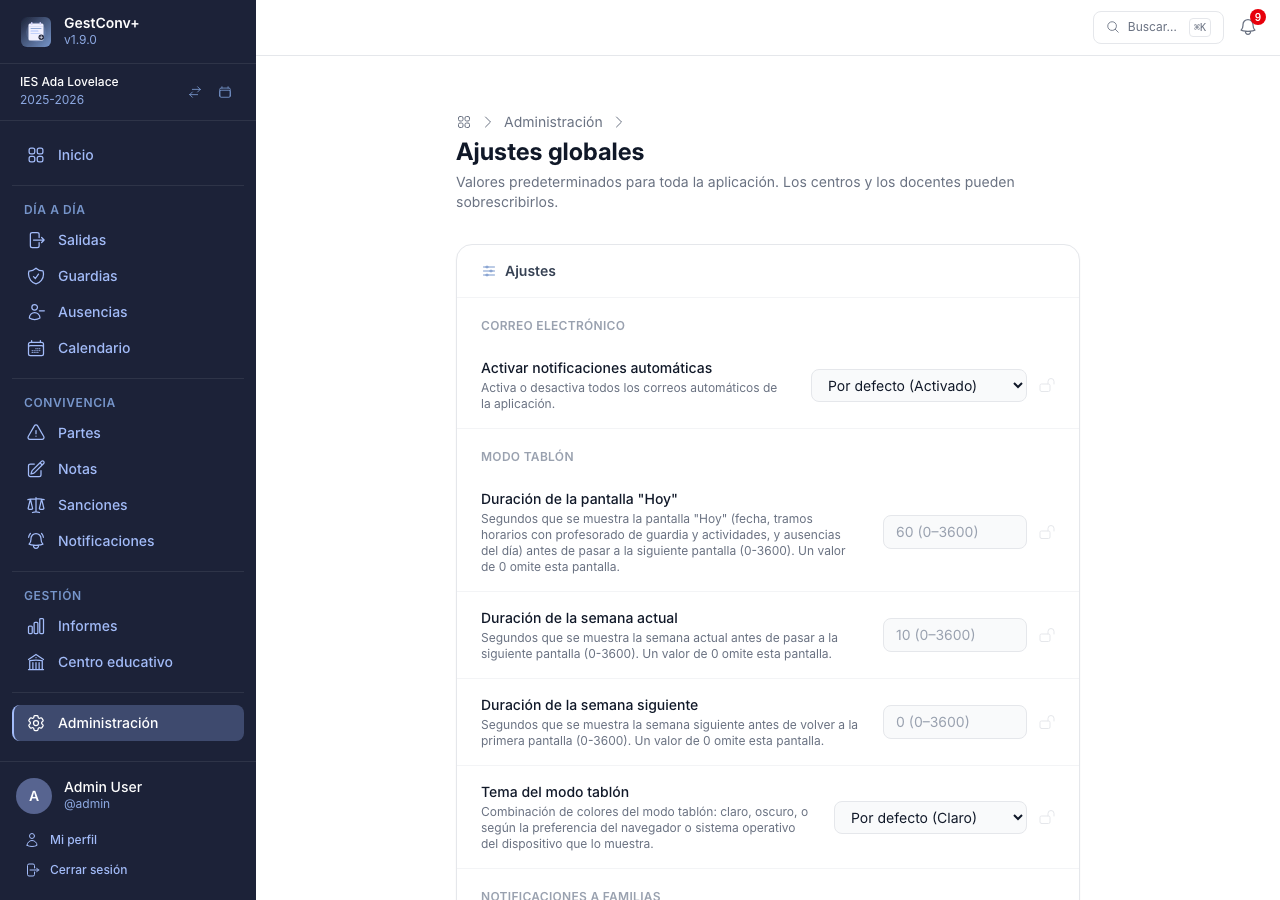
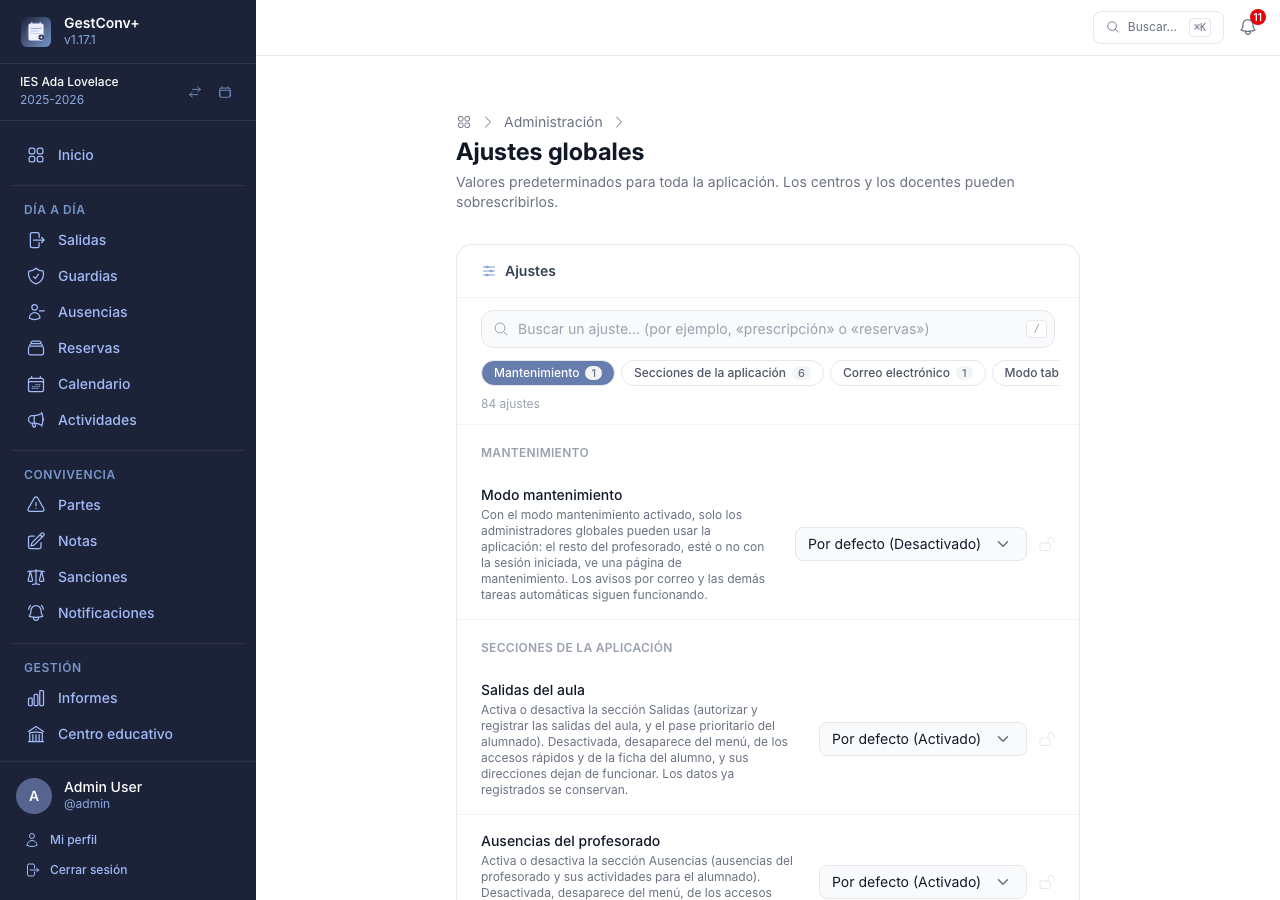
feat(settings): los avisos que se reciben se agrupan en cuatro categorías; la barra de ajustes se prueba y se documenta
El interruptor de «solo los modificados» existe siempre (la barra no se repinta) y la categoría activa se calcula por el desplazamiento.

Claude-Session: https://claude.ai/code/session_01T5bQf589vbJe9wberdDbBm

diff --git a/assets/controllers/settings_nav_controller.js b/assets/controllers/settings_nav_controller.js
@@ -10,38 +10,28 @@ import { Controller } from '@hotwired/stimulus';
  * vuelve a aplicar con cada evento «live:render». La barra de búsqueda lleva data-live-ignore y no se repinta.
  */
 export default class extends Controller {
-    static targets = ['input', 'clear', 'hint', 'modified', 'modifiedCount', 'chip', 'section', 'item', 'empty', 'status'];
+    static targets = ['input', 'clear', 'hint', 'modified', 'modifiedLabel', 'modifiedCount', 'chip', 'section', 'item', 'empty', 'status'];
     static values  = { countAll: String, countFiltered: String, empty: String };
 
-    #spy = null;
-    #visible = new Set();
     #root = null;
+    #frame = 0;
 
     connect() {
         this.#root = this.element.parentElement;
         this.#root?.addEventListener('live:render', this.#onRender);
         document.addEventListener('keydown', this.#onKey);
-
-        this.#spy = new IntersectionObserver((entries) => this.#spyEntries(entries), { rootMargin: '-140px 0px -55% 0px' });
-        this.sectionTargets.forEach((section) => this.#spy.observe(section));
+        window.addEventListener('scroll', this.#onScroll, { passive: true });
 
         this.apply();
         this.#scrollToHash();
+        this.#updateActive();
     }
 
     disconnect() {
         this.#root?.removeEventListener('live:render', this.#onRender);
         document.removeEventListener('keydown', this.#onKey);
-        this.#spy?.disconnect();
-    }
-
-    sectionTargetConnected(section) {
-        this.#spy?.observe(section);
-    }
-
-    sectionTargetDisconnected(section) {
-        this.#spy?.unobserve(section);
-        this.#visible.delete(section);
+        window.removeEventListener('scroll', this.#onScroll);
+        cancelAnimationFrame(this.#frame);
     }
 
     filter() {
@@ -82,6 +72,16 @@ export default class extends Controller {
     }
 
     apply() {
+        // El interruptor de «solo los modificados» solo tiene sentido si hay alguno (el número cambia al guardar).
+        const modifiedCount = this.itemTargets.filter((item) => item.dataset.modified === '1').length;
+        if (this.hasModifiedTarget) {
+            if (modifiedCount === 0) {
+                this.modifiedTarget.checked = false;
+            }
+            this.modifiedLabelTarget.classList.toggle('hidden', modifiedCount === 0);
+            this.modifiedLabelTarget.classList.toggle('inline-flex', modifiedCount > 0);
+        }
+
         const terms    = this.#normalize(this.inputTarget.value).split(/\s+/).filter(Boolean);
         const onlyMod  = this.hasModifiedTarget && this.modifiedTarget.checked;
         const filtered = terms.length > 0 || onlyMod;
@@ -112,7 +112,7 @@ export default class extends Controller {
         });
 
         if (this.hasModifiedCountTarget) {
-            this.modifiedCountTarget.textContent = String(this.itemTargets.filter((item) => item.dataset.modified === '1').length);
+            this.modifiedCountTarget.textContent = String(modifiedCount);
         }
         this.clearTarget.classList.toggle('hidden', this.inputTarget.value === '');
         this.hintTarget.classList.toggle('sm:inline-block', this.inputTarget.value === '');
@@ -122,11 +122,16 @@ export default class extends Controller {
 
         this.emptyTarget.classList.toggle('hidden', matches > 0);
         this.emptyTarget.textContent = this.emptyValue.replace('%query%', this.inputTarget.value.trim());
+
+        this.#updateActive();
     }
 
     #onRender = () => {
         // El repintado puede traer secciones y ajustes nuevos: se aplica de nuevo el filtro vigente.
-        queueMicrotask(() => this.apply());
+        queueMicrotask(() => {
+            this.apply();
+            this.#updateActive();
+        });
     };
 
     /** «/» lleva el foco al buscador, como en tantas aplicaciones, salvo que ya se esté escribiendo en un campo. */
@@ -147,19 +152,34 @@ export default class extends Controller {
         this.inputTarget.select();
     };
 
-    #spyEntries(entries) {
-        entries.forEach((entry) => {
-            if (entry.isIntersecting) {
-                this.#visible.add(entry.target);
-            } else {
-                this.#visible.delete(entry.target);
-            }
-        });
+    #onScroll = () => {
+        cancelAnimationFrame(this.#frame);
+        this.#frame = requestAnimationFrame(() => this.#updateActive());
+    };
 
-        const current = this.sectionTargets.find((section) => this.#visible.has(section) && !section.classList.contains('hidden'));
-        if (current) {
-            this.#markActive(current.dataset.category);
+    /**
+     * La categoría activa es la última cuyo comienzo ya ha pasado por debajo de la barra fija; al llegar al final de
+     * la página, la última (que no podría subir hasta arriba).
+     */
+    #updateActive() {
+        const sections = this.sectionTargets.filter((section) => !section.classList.contains('hidden'));
+        if (sections.length === 0) {
+            return;
         }
+
+        const atBottom = window.innerHeight + window.scrollY >= document.documentElement.scrollHeight - 4;
+        let current    = sections[0];
+        if (atBottom) {
+            current = sections[sections.length - 1];
+        } else {
+            for (const section of sections) {
+                if (section.getBoundingClientRect().top <= 190) {
+                    current = section;
+                }
+            }
+        }
+
+        this.#markActive(current.dataset.category);
     }
 
     #markActive(slug) {

diff --git a/migrations/sqlite/Version20260101000063.php b/migrations/sqlite/Version20260101000063.php
@@ -11,14 +11,23 @@ use Symfony\Component\Uid\Uuid;
 
 final class Version20260101000063 extends AbstractMigration
 {
-    /** Un ajuste «recibir este aviso» por cada tipo de aviso por correo (el mismo nombre que su evento). */
+    /**
+     * Un ajuste «recibir este aviso» por cada tipo de aviso por correo (el mismo nombre que su evento), con el grupo
+     * (categoría de ajustes) en que se muestra.
+     */
     private const array EVENTS = [
-        'report_created', 'report_notified', 'report_modified', 'report_deleted', 'report_prescribed', 'report_auto_prescribed',
-        'report_sanctioned', 'report_sanctionable_committee', 'sanction_notified', 'sanction_prescribed', 'sanction_auto_prescribed',
-        'sanction_task_assigned', 'sanction_task_reminder', 'daily_note_threshold', 'report_prescription_warning',
-        'sanction_prescription_warning', 'booking_requested', 'booking_approved', 'booking_rejected',
-        'booking_issue_reported', 'booking_issue_received', 'booking_issue_resolved',
+        'report_created' => 'reports', 'report_notified' => 'reports', 'report_modified' => 'reports', 'report_deleted' => 'reports',
+        'report_prescribed' => 'reports', 'report_auto_prescribed' => 'reports', 'report_sanctioned' => 'reports',
+        'report_sanctionable_committee' => 'reports', 'report_prescription_warning' => 'reports',
+        'sanction_notified' => 'sanctions', 'sanction_prescribed' => 'sanctions', 'sanction_auto_prescribed' => 'sanctions',
+        'sanction_prescription_warning' => 'sanctions',
+        'sanction_task_assigned' => 'tasks', 'sanction_task_reminder' => 'tasks', 'daily_note_threshold' => 'tasks',
+        'booking_requested' => 'bookings', 'booking_approved' => 'bookings', 'booking_rejected' => 'bookings',
+        'booking_issue_reported' => 'bookings', 'booking_issue_received' => 'bookings', 'booking_issue_resolved' => 'bookings',
     ];
+
+    /** Orden de las categorías de ajustes de cada grupo. */
+    private const array GROUP_ORDER = ['reports' => 52, 'sanctions' => 53, 'tasks' => 54, 'bookings' => 55];
 
     public function getDescription(): string
     {
@@ -41,11 +50,12 @@ final class Version20260101000063 extends AbstractMigration
         $this->addSql('ALTER TABLE resource_booking ADD COLUMN issue_response_seen INTEGER NOT NULL DEFAULT 1');
         $this->addSql('CREATE INDEX idx_resource_booking_issue ON resource_booking (issue_status)');
 
-        foreach (self::EVENTS as $index => $event) {
+        $position = 0;
+        foreach (self::EVENTS as $event => $group) {
             $this->addSql(
                 "INSERT INTO setting_definition (id, key, type, default_value, global_scope, centre_scope, teacher_scope, min_value, max_value, choices, category, category_order, position) VALUES
-                (?, ?, 'boolean', 'true', 1, 1, 1, NULL, NULL, NULL, 'settings.category.email_receive', 52, ?)",
-                [Uuid::v4()->toBinary(), 'notifications.receive_' . $event, ($index + 1) * 10]
+                (?, ?, 'boolean', 'true', 1, 1, 1, NULL, NULL, NULL, ?, ?, ?)",
+                [Uuid::v4()->toBinary(), 'notifications.receive_' . $event, 'settings.category.email_receive_' . $group, self::GROUP_ORDER[$group], ++$position * 10]
             );
         }
 
@@ -59,7 +69,7 @@ final class Version20260101000063 extends AbstractMigration
             'Esta migración sólo puede ejecutarse en SQLite.'
         );
 
-        foreach (self::EVENTS as $event) {
+        foreach (array_keys(self::EVENTS) as $event) {
             $key = 'notifications.receive_' . $event;
             foreach (['global_setting_value', 'centre_setting_value', 'teacher_setting_value'] as $table) {
                 $this->addSql("DELETE FROM $table WHERE definition_id IN (SELECT id FROM setting_definition WHERE key = '$key')");

diff --git a/migrations/postgresql/Version20260101000063.php b/migrations/postgresql/Version20260101000063.php
@@ -10,14 +10,23 @@ use Doctrine\Migrations\AbstractMigration;
 
 final class Version20260101000063 extends AbstractMigration
 {
-    /** Un ajuste «recibir este aviso» por cada tipo de aviso por correo (el mismo nombre que su evento). */
+    /**
+     * Un ajuste «recibir este aviso» por cada tipo de aviso por correo (el mismo nombre que su evento), con el grupo
+     * (categoría de ajustes) en que se muestra.
+     */
     private const array EVENTS = [
-        'report_created', 'report_notified', 'report_modified', 'report_deleted', 'report_prescribed', 'report_auto_prescribed',
-        'report_sanctioned', 'report_sanctionable_committee', 'sanction_notified', 'sanction_prescribed', 'sanction_auto_prescribed',
-        'sanction_task_assigned', 'sanction_task_reminder', 'daily_note_threshold', 'report_prescription_warning',
-        'sanction_prescription_warning', 'booking_requested', 'booking_approved', 'booking_rejected',
-        'booking_issue_reported', 'booking_issue_received', 'booking_issue_resolved',
+        'report_created' => 'reports', 'report_notified' => 'reports', 'report_modified' => 'reports', 'report_deleted' => 'reports',
+        'report_prescribed' => 'reports', 'report_auto_prescribed' => 'reports', 'report_sanctioned' => 'reports',
+        'report_sanctionable_committee' => 'reports', 'report_prescription_warning' => 'reports',
+        'sanction_notified' => 'sanctions', 'sanction_prescribed' => 'sanctions', 'sanction_auto_prescribed' => 'sanctions',
+        'sanction_prescription_warning' => 'sanctions',
+        'sanction_task_assigned' => 'tasks', 'sanction_task_reminder' => 'tasks', 'daily_note_threshold' => 'tasks',
+        'booking_requested' => 'bookings', 'booking_approved' => 'bookings', 'booking_rejected' => 'bookings',
+        'booking_issue_reported' => 'bookings', 'booking_issue_received' => 'bookings', 'booking_issue_resolved' => 'bookings',
     ];
+
+    /** Orden de las categorías de ajustes de cada grupo. */
+    private const array GROUP_ORDER = ['reports' => 52, 'sanctions' => 53, 'tasks' => 54, 'bookings' => 55];
 
     public function getDescription(): string
     {
@@ -46,8 +55,9 @@ final class Version20260101000063 extends AbstractMigration
         $this->addSql('ALTER TABLE resource_booking ADD CONSTRAINT fk_resource_booking_issue_by FOREIGN KEY (issue_responded_by_id) REFERENCES teacher (id) ON DELETE SET NULL NOT DEFERRABLE INITIALLY IMMEDIATE');
 
         $rows = [];
-        foreach (self::EVENTS as $index => $event) {
-            $rows[] = sprintf("(gen_random_uuid(), 'notifications.receive_%s', 'boolean', 'true', TRUE, TRUE, TRUE, NULL, NULL, 'settings.category.email_receive', 52, %d)", $event, ($index + 1) * 10);
+        $position = 0;
+        foreach (self::EVENTS as $event => $group) {
+            $rows[] = sprintf("(gen_random_uuid(), 'notifications.receive_%s', 'boolean', 'true', TRUE, TRUE, TRUE, NULL, NULL, 'settings.category.email_receive_%s', %d, %d)", $event, $group, self::GROUP_ORDER[$group], ++$position * 10);
         }
         $this->addSql(
             'INSERT INTO setting_definition (id, key, type, default_value, global_scope, centre_scope, teacher_scope, min_value, max_value, category, category_order, position) VALUES '
@@ -62,7 +72,7 @@ final class Version20260101000063 extends AbstractMigration
             'Esta migración sólo puede ejecutarse en PostgreSQL.'
         );
 
-        foreach (self::EVENTS as $event) {
+        foreach (array_keys(self::EVENTS) as $event) {
             $key = 'notifications.receive_' . $event;
             foreach (['global_setting_value', 'centre_setting_value', 'teacher_setting_value'] as $table) {
                 $this->addSql("DELETE FROM $table WHERE definition_id IN (SELECT id FROM setting_definition WHERE key = '$key')");

diff --git a/migrations/mysql/Version20260101000063.php b/migrations/mysql/Version20260101000063.php
@@ -10,14 +10,23 @@ use Doctrine\Migrations\AbstractMigration;
 
 final class Version20260101000063 extends AbstractMigration
 {
-    /** Un ajuste «recibir este aviso» por cada tipo de aviso por correo (el mismo nombre que su evento). */
+    /**
+     * Un ajuste «recibir este aviso» por cada tipo de aviso por correo (el mismo nombre que su evento), con el grupo
+     * (categoría de ajustes) en que se muestra.
+     */
     private const array EVENTS = [
-        'report_created', 'report_notified', 'report_modified', 'report_deleted', 'report_prescribed', 'report_auto_prescribed',
-        'report_sanctioned', 'report_sanctionable_committee', 'sanction_notified', 'sanction_prescribed', 'sanction_auto_prescribed',
-        'sanction_task_assigned', 'sanction_task_reminder', 'daily_note_threshold', 'report_prescription_warning',
-        'sanction_prescription_warning', 'booking_requested', 'booking_approved', 'booking_rejected',
-        'booking_issue_reported', 'booking_issue_received', 'booking_issue_resolved',
+        'report_created' => 'reports', 'report_notified' => 'reports', 'report_modified' => 'reports', 'report_deleted' => 'reports',
+        'report_prescribed' => 'reports', 'report_auto_prescribed' => 'reports', 'report_sanctioned' => 'reports',
+        'report_sanctionable_committee' => 'reports', 'report_prescription_warning' => 'reports',
+        'sanction_notified' => 'sanctions', 'sanction_prescribed' => 'sanctions', 'sanction_auto_prescribed' => 'sanctions',
+        'sanction_prescription_warning' => 'sanctions',
+        'sanction_task_assigned' => 'tasks', 'sanction_task_reminder' => 'tasks', 'daily_note_threshold' => 'tasks',
+        'booking_requested' => 'bookings', 'booking_approved' => 'bookings', 'booking_rejected' => 'bookings',
+        'booking_issue_reported' => 'bookings', 'booking_issue_received' => 'bookings', 'booking_issue_resolved' => 'bookings',
     ];
+
+    /** Orden de las categorías de ajustes de cada grupo. */
+    private const array GROUP_ORDER = ['reports' => 52, 'sanctions' => 53, 'tasks' => 54, 'bookings' => 55];
 
     public function getDescription(): string
     {
@@ -46,8 +55,9 @@ final class Version20260101000063 extends AbstractMigration
         $this->addSql('ALTER TABLE resource_booking ADD CONSTRAINT fk_resource_booking_issue_by FOREIGN KEY (issue_responded_by_id) REFERENCES teacher (id) ON DELETE SET NULL');
 
         $rows = [];
-        foreach (self::EVENTS as $index => $event) {
-            $rows[] = sprintf("(UNHEX(REPLACE(UUID(), '-', '')), 'notifications.receive_%s', 'boolean', 'true', 1, 1, 1, NULL, NULL, 'settings.category.email_receive', 52, %d)", $event, ($index + 1) * 10);
+        $position = 0;
+        foreach (self::EVENTS as $event => $group) {
+            $rows[] = sprintf("(UNHEX(REPLACE(UUID(), '-', '')), 'notifications.receive_%s', 'boolean', 'true', 1, 1, 1, NULL, NULL, 'settings.category.email_receive_%s', %d, %d)", $event, $group, self::GROUP_ORDER[$group], ++$position * 10);
         }
         $this->addSql(
             'INSERT INTO setting_definition (id, `key`, type, default_value, global_scope, centre_scope, teacher_scope, min_value, max_value, category, category_order, position) VALUES '
@@ -62,7 +72,7 @@ final class Version20260101000063 extends AbstractMigration
             'Esta migración sólo puede ejecutarse en MySQL o MariaDB.'
         );
 
-        foreach (self::EVENTS as $event) {
+        foreach (array_keys(self::EVENTS) as $event) {
             $key = 'notifications.receive_' . $event;
             foreach (['global_setting_value', 'centre_setting_value', 'teacher_setting_value'] as $table) {
                 $this->addSql("DELETE FROM $table WHERE definition_id IN (SELECT id FROM setting_definition WHERE `key` = '$key')");

diff --git a/tests/Integration/ControllerTestCase.php b/tests/Integration/ControllerTestCase.php
@@ -63,7 +63,7 @@ abstract class ControllerTestCase extends WebTestCase
             ['notifications.email_digest_hour', SettingType::Integer, '7',         true, true, true, 0,    23,   'settings.category.email_alerts', 50, 2, null],
             // «Recibir este aviso»: un ajuste por tipo de aviso, activado por defecto, en los tres niveles.
             ...array_map(
-                static fn (string $event, int $i): array => ['notifications.receive_' . $event, SettingType::Boolean, 'true', true, true, true, null, null, 'settings.category.email_receive', 52, ($i + 1) * 10, null],
+                static fn (string $event, int $i): array => ['notifications.receive_' . $event, SettingType::Boolean, 'true', true, true, true, null, null, 'settings.category.email_receive_reports', 52, ($i + 1) * 10, null],
                 $events = [
                     'report_created', 'report_notified', 'report_modified', 'report_deleted', 'report_prescribed', 'report_auto_prescribed',
                     'report_sanctioned', 'report_sanctionable_committee', 'sanction_notified', 'sanction_prescribed', 'sanction_auto_prescribed',

diff --git a/docs/manual/07-administrar-la-plataforma.md b/docs/manual/07-administrar-la-plataforma.md
@@ -141,6 +141,40 @@ Cuando un ajuste tiene valor en varios niveles, se resuelve en este orden de pri
 
 **docente > centro > global > valor por defecto**
 
+### Buscar y moverse por los ajustes {#buscar-en-los-ajustes}
+
+Como hay muchos ajustes, la parte superior de la pantalla lleva una **barra fija** (se queda visible
+al desplazarse) para encontrarlos sin recorrer la lista entera:
+
+![Ajustes globales con la barra de búsqueda, las categorías y los candados](img/ajustes/ajustes-candados.png)
+
+- **Buscador.** Escribe una o varias palabras y la lista se reduce al momento a los ajustes que
+  las contienen todas, sin importar mayúsculas ni tildes: se busca en el nombre, la descripción, la
+  categoría y la clave interna del ajuste. Debajo se indica cuántos quedan («4 de 28 ajustes») y,
+  si ninguno coincide, se avisa. La tecla **/** lleva el cursor al buscador desde cualquier punto
+  de la pantalla y **Esc** borra la búsqueda.
+
+  ![«Mis ajustes» filtrados al buscar «prescripción»](img/ajustes/ajustes-busqueda.png)
+
+- **Categorías.** La fila de pestañas muestra cada categoría con su número de ajustes; pulsar una
+  lleva a su sección, y la que se está leyendo queda resaltada al desplazarse. Con una búsqueda
+  activa, cada pestaña indica cuántos resultados tiene y las que no tienen ninguno se atenúan. Los
+  [avisos por correo que se reciben](#avisos-que-se-reciben) se reparten en cuatro categorías (partes,
+  sanciones, tareas y notas, y reservas) para no formar una lista interminable.
+
+  ![Categoría «Recibir avisos de reservas» seleccionada en la barra](img/ajustes/ajustes-categorias.png)
+
+- **Solo los modificados.** En cuanto hay algún ajuste con un valor propio en ese nivel, aparece
+  esta casilla con su recuento, y los ajustes personalizados llevan la etiqueta **Modificado**.
+  Marcarla deja solo esos ajustes: la forma más rápida de ver qué se ha cambiado respecto de los
+  valores por defecto.
+
+  ![«Solo los modificados» marcado, con un único ajuste personalizado](img/ajustes/ajustes-modificados.png)
+
+El filtro sigue aplicado cuando se guarda un ajuste. Al pulsar una categoría, la dirección de la
+página se actualiza (termina en algo como `#settings-cat-settings_category_bookings`), de modo que se
+puede copiar para llevar a alguien directamente a esa categoría.
+
 ### Bloqueo de ajustes
 
 Un administrador global o de centro puede **bloquear** el valor de un ajuste con el icono del
@@ -162,7 +196,8 @@ no borra el valor guardado; simplemente deja de forzarlo sobre los niveles infer
 
 La pantalla de ajustes agrupa cada uno en una de estas categorías, en este mismo orden:
 Mantenimiento, Secciones de la aplicación, Visualización, Correo electrónico, Modo tablón, Actividades,
-Reservas, Notificaciones a familias, Avisos por correo, Avisos que se reciben, Personalización de informes, Plantillas de informes,
+Reservas, Notificaciones a familias, Avisos por correo, Recibir avisos de partes, de sanciones, de tareas y notas
+y de reservas, Personalización de informes, Plantillas de informes,
 Ausencias, Tareas de sanción y Subida de ficheros.
 
 ### Visualización
@@ -331,8 +366,8 @@ de validar, aprobada y rechazada; e incidencia de una reserva registrada, recibi
 Se pueden fijar en **los tres niveles** (ámbito global, de centro y de docente), con la misma regla
 que el resto de ajustes:
 
-- El **docente** elige los suyos en **Mi perfil › Ajustes**, en la categoría **Avisos que se
-  reciben**.
+- El **docente** elige los suyos en **Mi perfil › Ajustes**, en las categorías **Recibir avisos de
+  partes**, **de sanciones**, **de tareas y notas** y **de reservas**.
 - El **centro** puede fijar un valor para todo su profesorado. Si lo **bloquea**, ningún docente
   puede cambiarlo.
 - La **plataforma** puede fijarlo para todos los centros y, igualmente, bloquearlo.

diff --git a/docs/slides/gestconv-plus.md b/docs/slides/gestconv-plus.md
@@ -837,6 +837,8 @@ está disponible para un docente normal, para el tutor/a, o para ambos.
 
 - Cada ajuste puede **bloquearse** a nivel global para impedir que un centro
   lo modifique, o dejarse libre para que cada centro lo personalice.
+- Una **barra fija** permite **buscar** un ajuste al escribir (sin distinguir
+  tildes), saltar por **categorías** y ver **solo los modificados**.
 - El **catálogo de conductas**, el de **medidas disciplinarias**, el de
   **ubicaciones** (dónde sucedió) y el de **métodos de comunicación** también
   se gestionan desde aquí, adaptándolos a las normas de convivencia propias
